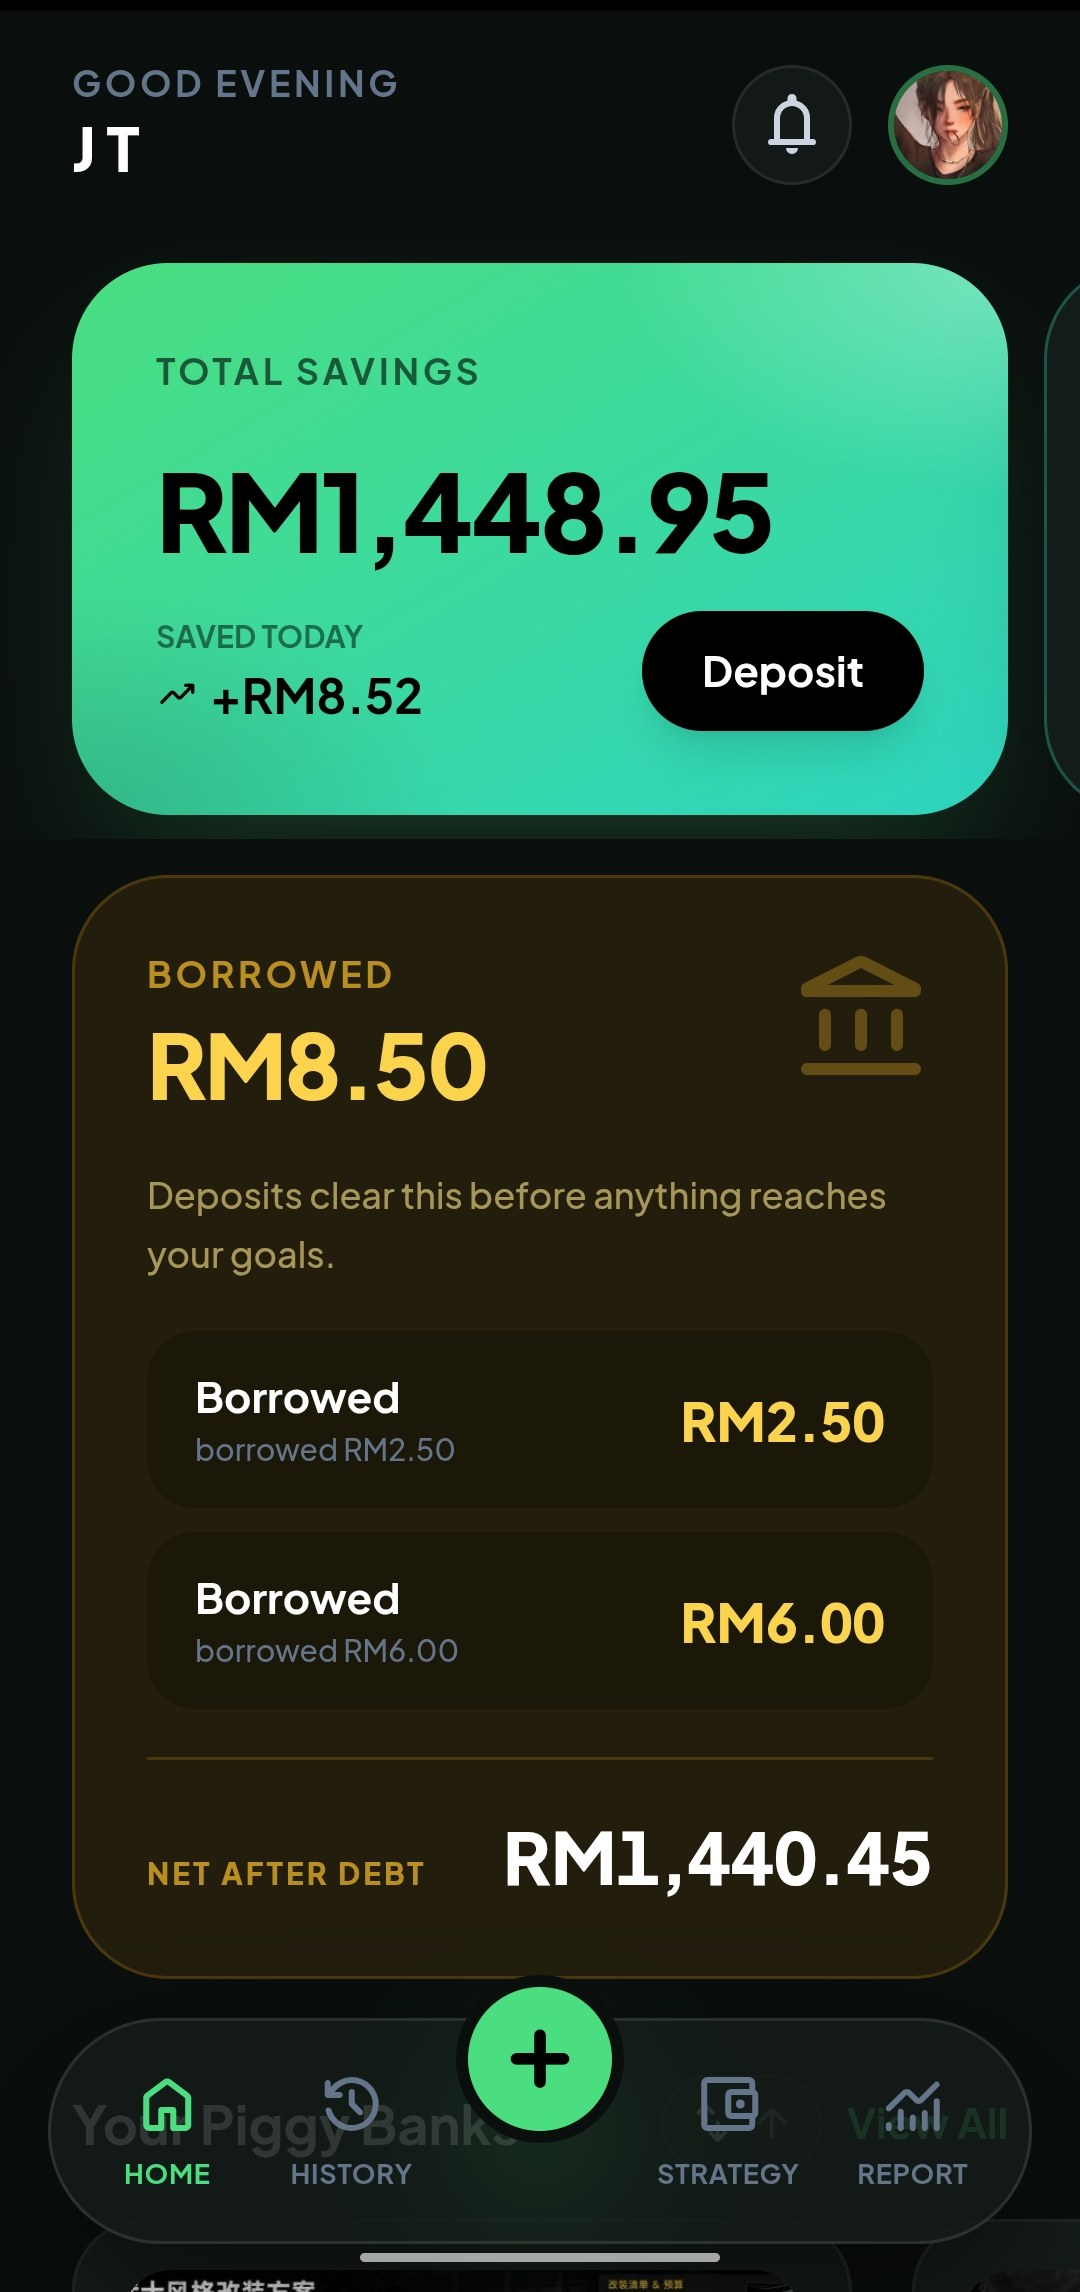
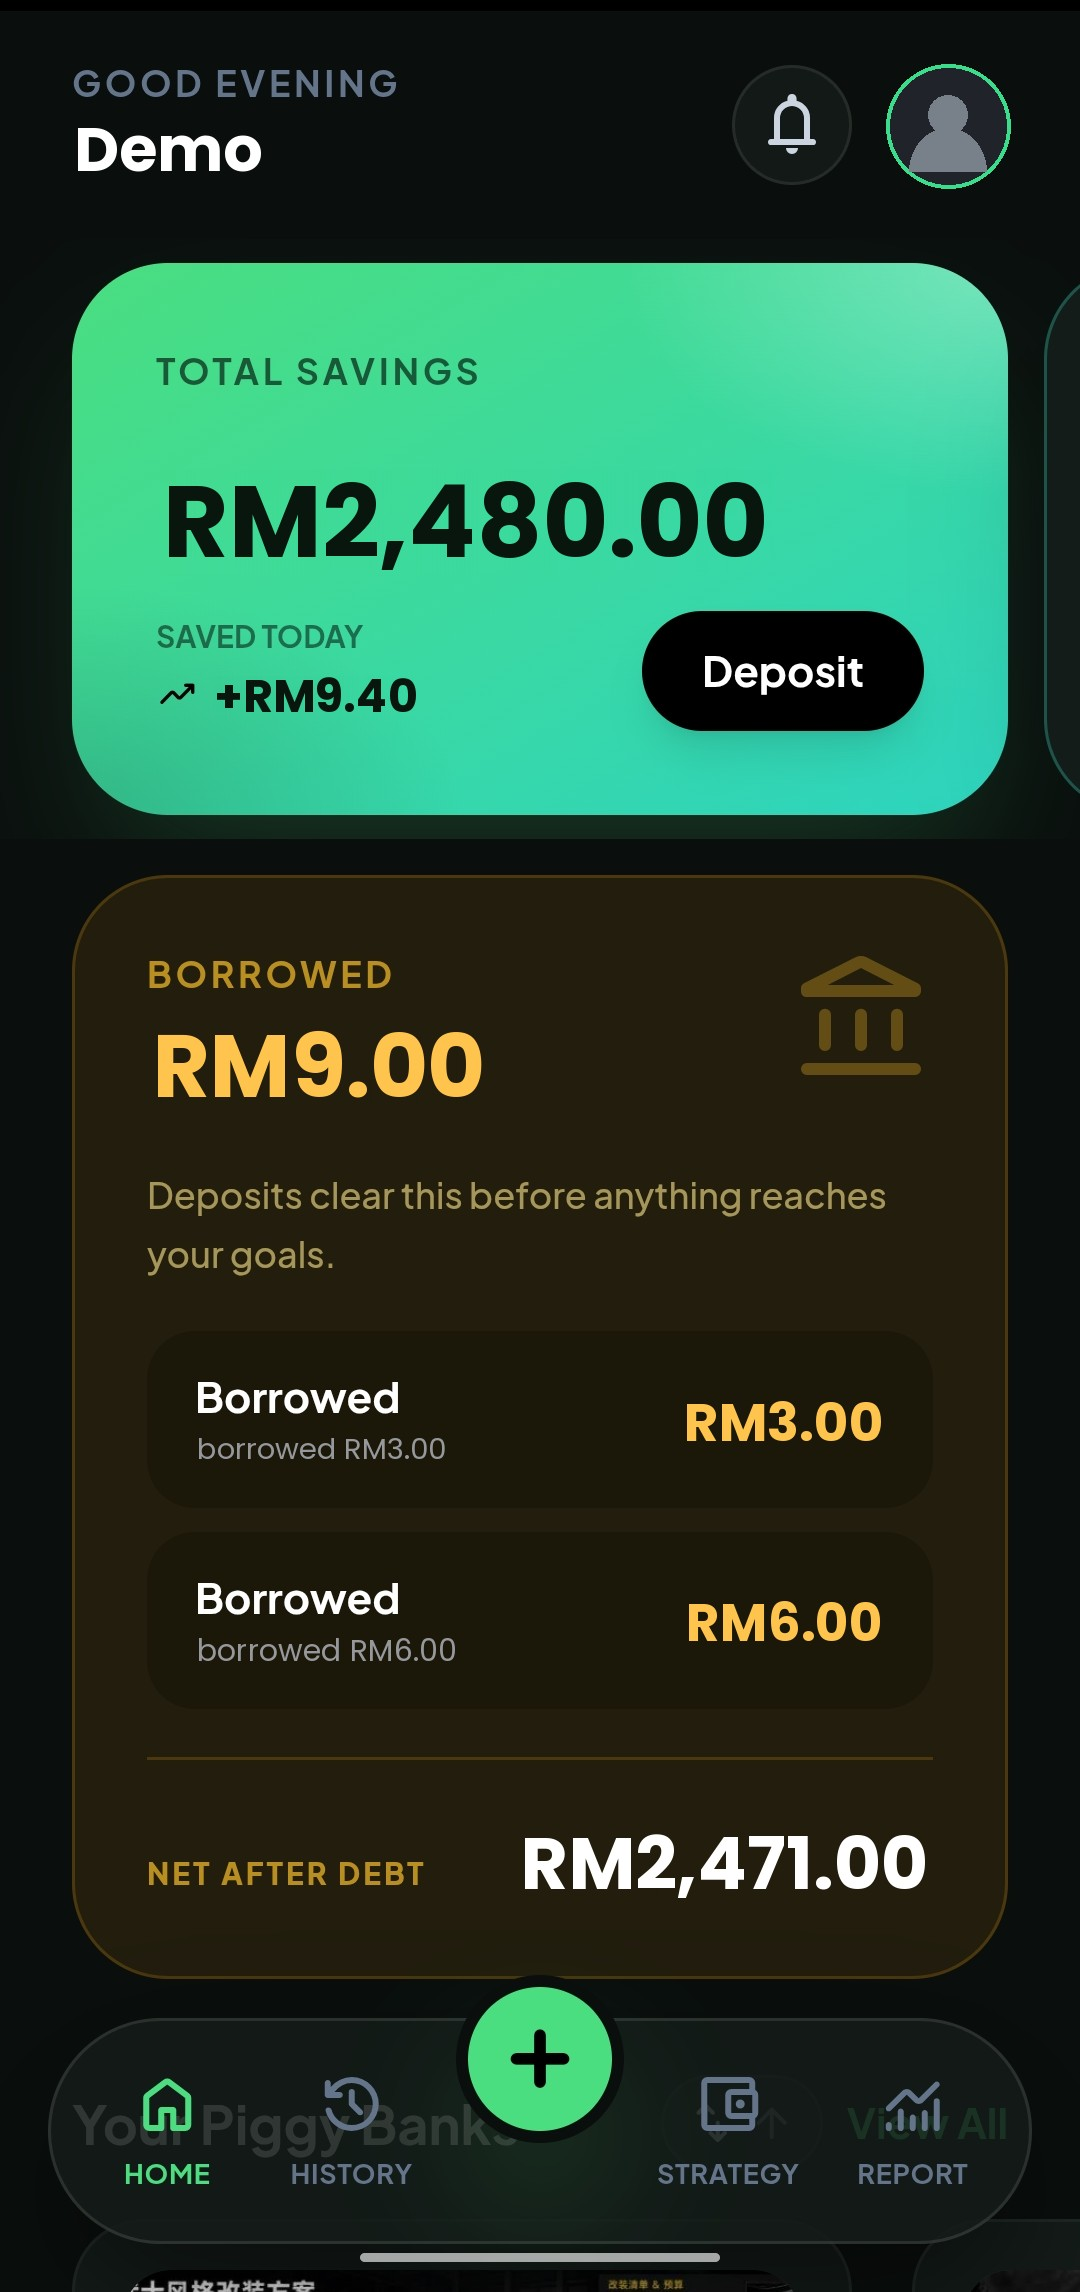
Project screens: real app screenshots with demo data, 7-screen switcher

diff --git a/src/components/Quests.tsx b/src/components/Quests.tsx
@@ -3,7 +3,7 @@
 import { useState } from "react";
 import { AnimatePresence, motion } from "motion/react";
 import { projects, statusLabel, ui } from "@/lib/content";
-import { artAccent, projectArt, projectPhoto } from "@/lib/art";
+import { artAccent, projectArt, projectScreens, screenLabels, screenSrc } from "@/lib/art";
 import { useStore } from "@/lib/store";
 import Section from "./Section";
 import PhoneShowcase from "./PhoneShowcase";
@@ -18,8 +18,11 @@ export default function Quests() {
   const { t, lang, unlock } = useStore();
   const [open, setOpen] = useState<string | null>(projects[0].id);
   const [active, setActive] = useState(projects[0].id);
+  const [screen, setScreen] = useState(0);
 
   const artKey = ART[active] ?? "pethub";
+  const shots = projectScreens[artKey] ?? [];
+  const labels = screenLabels[artKey] ?? [];
 
   return (
     <Section id="projects" index="03" title={ui.sectionProjects}>
@@ -32,7 +35,10 @@ export default function Quests() {
               <li
                 key={p.id}
                 data-spotlight
-                onMouseEnter={() => setActive(p.id)}
+                onMouseEnter={() => {
+                  setActive(p.id);
+                  setScreen(0);
+                }}
                 className={`gradient-border reveal overflow-hidden rounded-2xl border bg-bg-2/70 transition-colors ${
                   expanded ? "border-transparent" : "border-line"
                 }`}
@@ -44,6 +50,7 @@ export default function Quests() {
                   onClick={() => {
                     setOpen(expanded ? null : p.id);
                     setActive(p.id);
+                    setScreen(0);
                     unlock("questlog");
                   }}
                   className="flex w-full items-start gap-4 p-5 text-left sm:p-6"
@@ -110,13 +117,18 @@ export default function Quests() {
                       <div className="border-t border-line/60 px-5 pb-5 pt-4 sm:px-6 sm:pb-6">
                         {/* flat art on small screens, where the 3D column is hidden */}
                         <div className="mb-5 flex justify-center lg:hidden" aria-hidden>
-                          {projectPhoto[ART[p.id]] ? (
-                            // eslint-disable-next-line @next/next/no-img-element
-                            <img
-                              src={projectPhoto[ART[p.id]]}
-                              alt=""
-                              className="h-[320px] w-auto rounded-2xl border border-line"
-                            />
+                          {screenSrc(ART[p.id]) ? (
+                            <span className="flex gap-3 overflow-x-auto pb-2">
+                              {(projectScreens[ART[p.id]] ?? []).map((src) => (
+                                // eslint-disable-next-line @next/next/no-img-element
+                                <img
+                                  key={src}
+                                  src={src}
+                                  alt=""
+                                  className="h-[320px] w-auto shrink-0 rounded-2xl border border-line"
+                                />
+                              ))}
+                            </span>
                           ) : (
                             <span
                               dangerouslySetInnerHTML={{
@@ -173,8 +185,28 @@ export default function Quests() {
         </ul>
 
         <div className="reveal hidden lg:block">
-          <div className="sticky top-24 h-[540px]">
-            <PhoneShowcase artKey={artKey} />
+          <div className="sticky top-24">
+            <div className="h-[540px]">
+              <PhoneShowcase artKey={artKey} screen={screen} />
+            </div>
+            {shots.length > 1 && (
+              <div className="mt-2 flex flex-wrap justify-center gap-1.5">
+                {shots.map((_, i) => (
+                  <button
+                    key={i}
+                    type="button"
+                    onClick={() => setScreen(i)}
+                    className={`rounded-full border px-2.5 py-1 font-mono text-[10px] transition-colors ${
+                      screen === i
+                        ? "border-acid bg-acid/15 text-acid"
+                        : "border-line text-muted hover:text-fg"
+                    }`}
+                  >
+                    {labels[i] ?? i + 1}
+                  </button>
+                ))}
+              </div>
+            )}
           </div>
         </div>
       </div>

diff --git a/src/components/PhoneShowcase.tsx b/src/components/PhoneShowcase.tsx
@@ -1,10 +1,10 @@
 "use client";
 
 import { useEffect, useRef, useState } from "react";
-import { projectArt, projectPhoto } from "@/lib/art";
+import { projectArt, screenSrc } from "@/lib/art";
 
 type Api = {
-  setArt: (key: string) => void;
+  setArt: (key: string, idx?: number) => void;
   dispose: () => void;
 };
 
@@ -13,7 +13,7 @@ type Api = {
  * no drei. three is dynamically imported only once the section is close to
  * the viewport, so it never touches the initial bundle.
  */
-export default function PhoneShowcase({ artKey }: { artKey: string }) {
+export default function PhoneShowcase({ artKey, screen = 0 }: { artKey: string; screen?: number }) {
   const mountRef = useRef<HTMLDivElement>(null);
   const apiRef = useRef<Api | null>(null);
   const [ready, setReady] = useState(false);
@@ -88,9 +88,9 @@ export default function PhoneShowcase({ artKey }: { artKey: string }) {
 
       // --- screen ---
       const screenMat = new THREE.MeshBasicMaterial({ color: 0xffffff, toneMapped: false });
-      const screen = new THREE.Mesh(new THREE.PlaneGeometry(1.5, 3.16), screenMat);
-      screen.position.z = 0.0885;
-      group.add(screen);
+      const screenMesh = new THREE.Mesh(new THREE.PlaneGeometry(1.5, 3.16), screenMat);
+      screenMesh.position.z = 0.0885;
+      group.add(screenMesh);
 
       // camera bump + side buttons for believability
       const lens = new THREE.Mesh(
@@ -136,9 +136,9 @@ export default function PhoneShowcase({ artKey }: { artKey: string }) {
       screenMat.needsUpdate = true;
 
       let flash = 0;
-      const setArt = (k: string) => {
+      const setArt = (k: string, idx = 0) => {
         if (!ctx) return;
-        const photo = projectPhoto[k];
+        const photo = screenSrc(k, idx);
         const svg = projectArt[k];
         if (!photo && !svg) return;
 
@@ -240,7 +240,7 @@ export default function PhoneShowcase({ artKey }: { artKey: string }) {
       };
       raf = requestAnimationFrame(tick);
 
-      setArt(artKey);
+      setArt(artKey, screen);
       setReady(true);
 
       apiRef.current = {
@@ -278,8 +278,8 @@ export default function PhoneShowcase({ artKey }: { artKey: string }) {
   }, []);
 
   useEffect(() => {
-    apiRef.current?.setArt(artKey);
-  }, [artKey]);
+    apiRef.current?.setArt(artKey, screen);
+  }, [artKey, screen]);
 
   return (
     <div className="relative h-full w-full">
@@ -291,10 +291,10 @@ export default function PhoneShowcase({ artKey }: { artKey: string }) {
           className="pointer-events-none absolute inset-0 grid place-items-center p-6"
           aria-hidden
         >
-          {projectPhoto[artKey] ? (
+          {screenSrc(artKey, screen) ? (
             // eslint-disable-next-line @next/next/no-img-element
             <img
-              src={projectPhoto[artKey]}
+              src={screenSrc(artKey, screen) as string}
               alt=""
               className="h-full max-h-[420px] w-auto rounded-[26px] border border-line object-cover"
             />

diff --git a/src/lib/art.ts b/src/lib/art.ts
@@ -268,12 +268,33 @@ export const projectArt: Record<string, string> = {
 };
 
 /**
- * Real screenshots, where they exist. Anything listed here wins over the
- * procedural art above — both on the cards and on the 3D phone.
+ * Real screenshots of the shipped apps, with every figure swapped for demo
+ * data. Anything listed here wins over the procedural art above — on the
+ * cards and on the 3D phone alike.
  */
-export const projectPhoto: Record<string, string> = {
-  savvypiggy: "./savvypiggy-home.jpg",
+export const projectScreens: Record<string, string[]> = {
+  savvypiggy: [
+    "./savvypiggy-home.jpg",
+    "./savvypiggy-history.jpg",
+    "./savvypiggy-strategy.jpg",
+    "./savvypiggy-goals.jpg",
+    "./savvypiggy-report.jpg",
+    "./savvypiggy-alloc.jpg",
+    "./savvypiggy-pacing.jpg",
+  ],
+  dividend: ["./dividend-home.jpg"],
 };
+
+export const screenLabels: Record<string, string[]> = {
+  savvypiggy: ["Home", "History", "Strategy", "Goals", "Report", "Split", "Pacing"],
+  dividend: ["Live"],
+};
+
+export function screenSrc(key: string, i = 0): string | null {
+  const list = projectScreens[key];
+  if (!list || !list.length) return null;
+  return list[Math.min(i, list.length - 1)];
+}
 
 export const artAccent: Record<string, string> = {
   pethub: "#8A6FD1",
